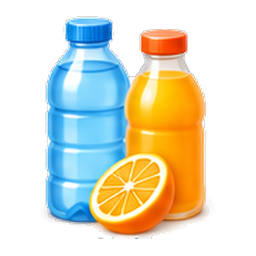
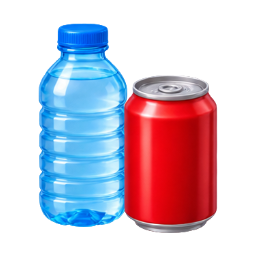
Icônes maison : rayons Fleurs et plantes, Multimédia et accessoires, 7 rayons redessinés, 14 nouveaux secteurs
Claude-Session: https://claude.ai/code/session_01KFaY6PJWm9LRitQA9aQjkj

diff --git a/lib/donnees/pictos_maison.dart b/lib/donnees/pictos_maison.dart
@@ -18,11 +18,13 @@ const pictosMaison = <String>{
   'eaux-et-boissons-sans-alcool',
   'entretien-et-droguerie',
   'entretien-droguerie',
+  'fleurs-et-plantes',
   'fromagerie',
   'fruits-et-legumes',
   'glaces',
   'hygiene',
   'loisirs',
+  'multimedia-et-accessoires',
   'parapharmacie',
   'parfumerie-et-soins',
   'petit-dejeuner',
@@ -77,6 +79,7 @@ const pictosMaison = <String>{
   'charcuterie--charcuterie-au-comptoir',
   'charcuterie--charcuterie-libre-service',
   'cremerie--beurre-oeufs-creme',
+  'cremerie--desserts-vegetaux',
   'cremerie--lait',
   'cremerie--yaourts-et-desserts',
   'cuisine-du-monde--asie',
@@ -89,6 +92,8 @@ const pictosMaison = <String>{
   'cuisine-et-arts-de-la-table--vaisselle-jetable',
   'cuisine-et-arts-de-la-table--vaisselle',
   'eaux-et-boissons-sans-alcool--biere',
+  'eaux-et-boissons-sans-alcool--bieres-sans-alcool',
+  'eaux-et-boissons-sans-alcool--boissons-vegetales',
   'eaux-et-boissons-sans-alcool--eaux',
   'eaux-et-boissons-sans-alcool--jus-de-fruits',
   'eaux-et-boissons-sans-alcool--sodas-et-sirops',
@@ -112,11 +117,14 @@ const pictosMaison = <String>{
   'entretien-et-droguerie--salle-de-bain-et-cirage',
   'entretien-droguerie--salle-de-bain-et-cirage',
   'epicerie-salee--conserves',
+  'epicerie-salee--huiles-et-vinaigres',
   'epicerie-salee--pains-industriels',
   'epicerie-salee--pates-riz-et-feculents',
   'epicerie-salee--sauces-et-condiments',
   'epicerie-salee--sel-epices-et-aides-culinaires',
   'epicerie-salee--soupes-et-plats-prepares',
+  'fleurs-et-plantes--fleurs-et-bouquets',
+  'fleurs-et-plantes--plantes-d-interieur',
   'fromagerie--fromages-au-comptoir',
   'fromagerie--fromages-libre-service',
   'fruits-et-legumes--fraiche-decoupe',
@@ -132,6 +140,9 @@ const pictosMaison = <String>{
   'loisirs--bagagerie',
   'loisirs--jouets',
   'loisirs--papeterie-et-librairie',
+  'multimedia-et-accessoires--image-et-son',
+  'multimedia-et-accessoires--informatique-et-accessoires',
+  'multimedia-et-accessoires--telephonie-et-accessoires',
   'parapharmacie--soins-et-premiers-secours',
   'parapharmacie--solaires-et-soins-specifiques',
   'parfumerie-et-soins--cheveux',
@@ -145,10 +156,12 @@ const pictosMaison = <String>{
   'petit-dejeuner--the-et-chocolat-en-poudre',
   'piscine--accessoires-de-nettoyage',
   'piscine--analyse-et-controle',
+  'piscine--baches-et-hivernage',
   'piscine--equipements-et-filtration',
   'piscine--traitement-de-l-eau',
   'poissonnerie--poissonnerie-au-comptoir',
   'poissonnerie--poissonnerie-libre-service',
+  'poissonnerie--traiteur-de-la-mer',
   'saisonnier--automne-et-recoltes',
   'saisonnier--barbecue-et-grillades',
   'saisonnier--camping-et-vacances',
@@ -170,6 +183,8 @@ const pictosMaison = <String>{
   'saisonnier--rentree-scolaire',
   'saisonnier--saint-valentin',
   'saisonnier--soldes-et-bonnes-affaires',
+  'surgeles--frites-et-pommes-de-terre-surgelees',
+  'surgeles--fruits-surgeles',
   'surgeles--legumes-surgeles',
   'surgeles--plats-et-pizzas-surgeles',
   'surgeles--viandes-et-poissons-surgeles',
@@ -181,6 +196,7 @@ const pictosMaison = <String>{
   'textile--vetements-femme',
   'textile--vetements-homme',
   'traiteur--pates-fraiches-et-pates-a-tarte',
+  'traiteur--sandwichs-et-repas-sur-le-pouce',
   'traiteur--traiteur-au-comptoir',
   'traiteur--traiteur-frais',
   'viennoiserie-et-patisserie--patisserie',
